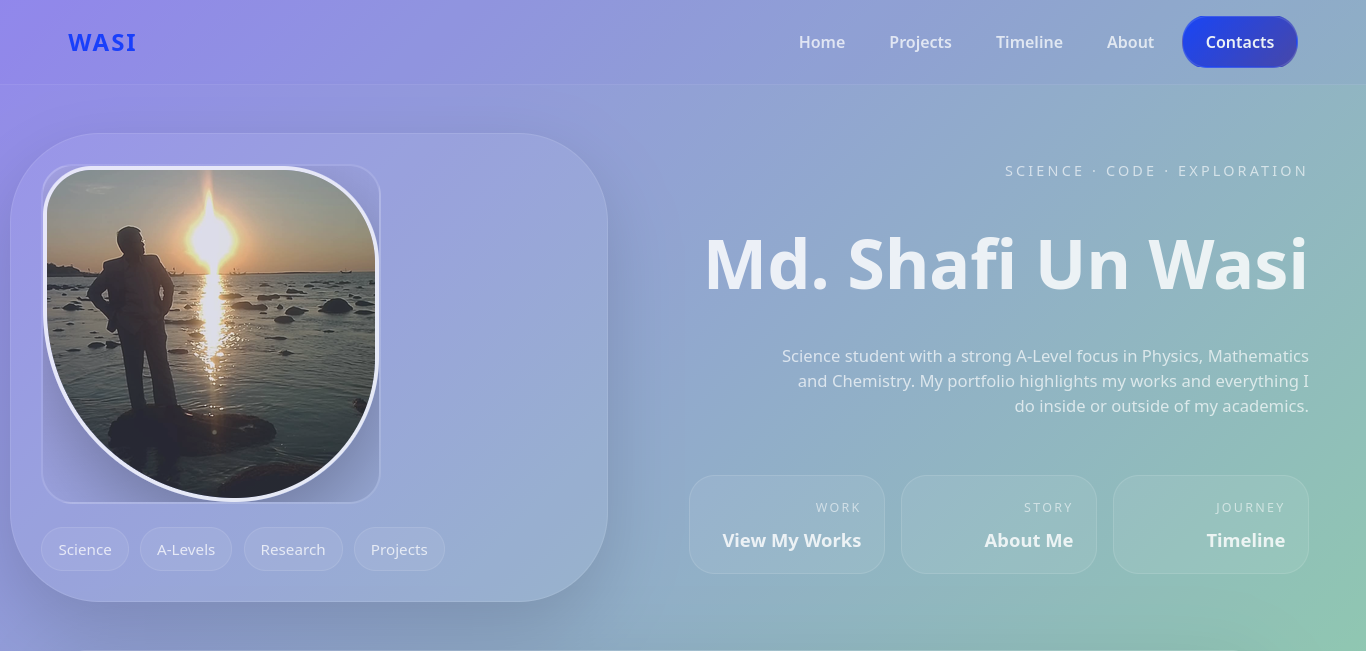
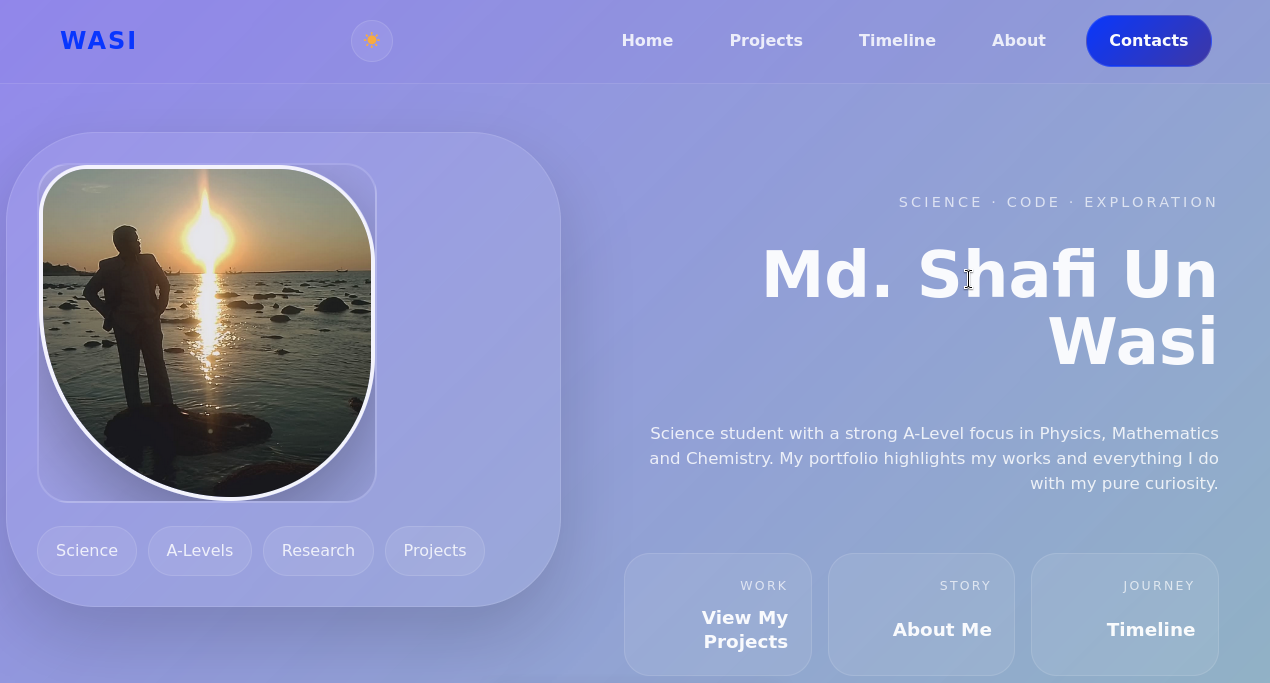
Added update, credentials subpages. used the assets/ article page (Some edit there still remains specially CSS). And some data update. Added stats from GitHub and hacktime.

diff --git a/index.html b/index.html
@@ -24,9 +24,6 @@
     <link rel="manifest" href="manifest.json">
 
     <title>Wasi's Portfolio</title>
-    <link rel="preconnect" href="https://fonts.googleapis.com">
-    <link rel="preconnect" href="https://fonts.gstatic.com" crossorigin>
-    <link href="https://fonts.googleapis.com/css2?family=Inter:wght@400;600;700;800;900&display=swap" rel="stylesheet">
     <link rel="stylesheet" href="my-style.css">
 </head>
 <body class="library-theme">
@@ -71,22 +68,34 @@
             <div class="hero-right reveal">
                 <div class="hero-eyebrow">Science · Code · Exploration</div>
                 <h1>Md. Shafi Un Wasi</h1>
-                <p>Science student with a strong A-Level focus in Physics, Mathematics and Chemistry. My portfolio highlights my works and everything I do inside or outside of my academics.</p>
+                <p>Science student with a strong A-Level focus in Physics, Mathematics and Chemistry. My portfolio highlights my works and everything I do with my pure curiosity.</p>
 
                 <div class="hero-link-grid">
                     <a href="Pages/view-my-work-index.html" class="hero-link-card">
                         <span>Work</span>
-                        <strong>View My Works</strong>
+                        <strong>View My Projects</strong>
                     </a>
                     <a href="Pages/about-index.html" class="hero-link-card">
                         <span>Story</span>
                         <strong>About Me</strong>
                     </a>
-                    <a href="Pages/history-timeline-index.html" class="hero-link-card">
-                        <span>Journey</span>
-                        <strong>Timeline</strong>
+                    <a href="Pages/credentials-index.html" class="hero-link-card">
+                        <span>Credentials</span>
+                        <strong>credentials and cirtifications</strong>
                     </a>
                 </div>
+            </div>
+        </section>
+
+        <section id="status" class="panel reveal delay-3">
+            <h2 class="section-title">Current Status</h2>
+            <div class="status-card">
+                <div class="status-pill-row">
+                    <span class="status-pill">Innovating new ideas</span>
+                    <span class="status-pill">Sharing progress</span>
+                    <span class="status-pill">Open to collaboration</span>
+                </div>
+                <p>I’m currently working on projects, posting updates, and collecting thoughts that I’ll share through this website.</p>
             </div>
         </section>
 
@@ -141,12 +150,51 @@
                 </article>
             </div>
         </section>
+
+        <section id="stats" class="panel reveal delay-6">
+            <h2 class="section-title">GitHub Stats</h2>
+            <div class="stats-grid stats-row">
+                <article class="stat-card">
+                    <img src="https://github-readme-stats.shion.dev/api?username=MDSUWasi&theme=radical&hide_border=false&include_all_commits=true&count_private=true" alt="GitHub stats for Md. Shafi Un Wasi" loading="lazy">
+                </article>
+                <article class="stat-card">
+                    <img src="https://streak-stats.demolab.com/?user=MDSUWasi&theme=radical&hide_border=false" alt="GitHub streak stats for Md. Shafi Un Wasi" loading="lazy">
+                </article>
+                <article class="stat-card">
+                    <img src="https://github-readme-stats.shion.dev/api/top-langs/?username=MDSUWasi&theme=radical&hide_border=false&include_all_commits=true&count_private=true&layout=compact" alt="Top languages for Md. Shafi Un Wasi" loading="lazy">
+                </article>
+            </div>
+        </section>
+
+        <section id="hacktime-stats" class="panel reveal delay-6">
+            <h2 class="section-title">Hacktime Stats</h2>
+            <div class="stats-grid stats-row">
+                <article class="stat-card">
+                    <img src="https://github-readme-stats.hackclub.dev/api/wakatime?username=37914&api_domain=hackatime.hackclub.com&theme=great-gatsby&custom_title=Hackatime+Stats&layout=compact&cache_seconds=0&langs_count=8" alt="Hacktime stats for Md. Shafi Un Wasi" loading="lazy">
+                </article>
+            </div>
+        </section>
+
+        <section id="analytics" class="panel reveal delay-6">
+            <h2 class="section-title">How This Website Analytics Work</h2>
+            <div class="analytics-card">
+                <p>This website uses Umami analytics to collect privacy-friendly, anonymous data about visits and page activity. The goal is to understand which pages are useful, improve the experience, and keep the site helpful for visitors.</p>
+                <p>It tracks things like page views, referrer information, and general visit patterns without storing personal details or relying on invasive cookies. The data is used only to improve this portfolio site and is not shared for advertising purposes.</p>
+                <br>
+                <p><b>This page or any sub-page may contain links from other sites. The analytics of those sites is totally on their own. So, those who visit any other site using external link please be aware of those site's privay policy and terms of conditions (Those may be entirely different from my site)</b></p>
+            </div>
+        </section>
     </main>
 
     <footer id="contact" class="footer-panel reveal delay-6">
         <div class="footer-copy">
             <h3>More From Me</h3>
-            <p>This site will get a major update on 10 August with a lot of new things.</p>
+            <p>Thank You For Visiting My Portfolio Website.</p>
+        </div>
+        <div class="footer-actions">
+            <a href="Pages/updates-index.html" class="btn-secondary">View Updates</a>
+            <a href="Pages/articles-index.html" class="btn-secondary">Read Articles</a>
+            <a href="Pages/credentials-index.html" class="btn-secondary">View Credentials</a>
         </div>
         <div class="socials">
             <a href="https://github.com/MDSUWasi" class="hover-icon" target="_blank" rel="noopener noreferrer">GitHub</a>

diff --git a/my-style.css b/my-style.css
@@ -200,6 +200,9 @@ button {
     display: grid;
     gap: 2rem;
     align-content: center;
+    position: relative;
+    padding-bottom: 8rem;
+    isolation: isolate;
 }
 
 .avatar-card {
@@ -250,6 +253,38 @@ button {
     justify-items: end;
     text-align: right;
     align-content: center;
+}
+
+.status-card {
+    background: var(--panel-bg);
+    border: 1px solid var(--glass-border);
+    border-radius: var(--card-radius);
+    padding: 1.7rem;
+    box-shadow: 0 18px 48px rgba(0, 0, 0, 0.16);
+}
+
+.status-pill-row {
+    display: flex;
+    flex-wrap: wrap;
+    gap: 0.75rem;
+    margin-bottom: 1rem;
+}
+
+.status-pill {
+    display: inline-flex;
+    align-items: center;
+    padding: 0.7rem 1rem;
+    border-radius: 999px;
+    background: rgba(255, 255, 255, 0.12);
+    border: 1px solid rgba(255, 255, 255, 0.16);
+    color: var(--text);
+    font-weight: 600;
+}
+
+.status-card p {
+    margin: 0;
+    color: var(--text-muted);
+    line-height: 1.75;
 }
 
 .hero-eyebrow {
@@ -497,6 +532,66 @@ button {
     pointer-events: none;
 }
 
+.stats-grid {
+    display: grid;
+    grid-template-columns: repeat(2, minmax(240px, 1fr));
+    gap: 1.5rem;
+}
+
+.stats-grid.stats-row {
+    grid-template-columns: repeat(3, minmax(220px, 1fr));
+    align-items: start;
+}
+
+.stat-card {
+    background: var(--panel-bg);
+    border: 1px solid var(--glass-border);
+    border-radius: var(--card-radius);
+    padding: 1.2rem;
+    box-shadow: 0 18px 48px rgba(0, 0, 0, 0.16);
+    display: flex;
+    align-items: center;
+    justify-content: center;
+}
+
+.stat-card img {
+    width: 100%;
+    max-width: 100%;
+    height: auto;
+    border-radius: 16px;
+    display: block;
+}
+
+.analytics-card {
+    background: var(--panel-bg);
+    border: 1px solid var(--glass-border);
+    border-radius: var(--card-radius);
+    padding: 1.7rem;
+    box-shadow: 0 18px 48px rgba(0, 0, 0, 0.16);
+}
+
+.analytics-card p {
+    color: var(--text-muted);
+    line-height: 1.75;
+    margin: 0 0 1rem;
+}
+
+.analytics-card p:last-child {
+    margin-bottom: 0;
+}
+
+.credential-card img {
+    width: 100%;
+    height: 220px;
+    object-fit: cover;
+    border-radius: 16px;
+    margin: 1rem 0;
+}
+
+.credential-card .btn-secondary {
+    margin-top: 0.8rem;
+}
+
 .footer-panel {
     margin: 2rem auto;
     padding: 3rem 5%;
@@ -511,6 +606,12 @@ button {
     box-shadow: 0 20px 80px rgba(0, 0, 0, 0.12);
     backdrop-filter: blur(18px);
     -webkit-backdrop-filter: blur(18px);
+}
+
+.footer-actions {
+    display: flex;
+    flex-wrap: wrap;
+    gap: 0.85rem;
 }
 
 .footer-copy h3 {
@@ -621,7 +722,9 @@ button {
     }
 
     .card-grid,
-    .panel-grid {
+    .panel-grid,
+    .stats-grid,
+    .stats-grid.stats-row {
         grid-template-columns: 1fr;
     }
 }
@@ -677,6 +780,10 @@ button {
         padding-top: 1.5rem;
     }
 
+    .hero-left {
+        padding-bottom: 1rem;
+    }
+
     .hero-decoration {
         display: none;
     }
@@ -690,6 +797,10 @@ button {
     .footer-panel {
         flex-direction: column;
         align-items: stretch;
+    }
+
+    .footer-actions {
+        justify-content: flex-start;
     }
 }
 

diff --git a/Pages/credentials-index.html b/Pages/credentials-index.html
@@ -1,0 +1,44 @@
+<!DOCTYPE html>
+<html lang="en" data-theme="light">
+<head>
+    <meta charset="UTF-8">
+    <meta name="viewport" content="width=device-width, initial-scale=1.0">
+    <title>Credentials | Wasi's Portfolio</title>
+    <link rel="stylesheet" href="../my-style.css">
+</head>
+<body class="library-theme">
+    <header class="site-header">
+        <a href="../index.html" class="logo">WASI</a>
+        <nav class="nav-links" id="primary-nav" aria-label="Primary navigation">
+            <a href="../index.html" class="nav-link">Home</a>
+            <a href="project-index.html" class="nav-link">Projects</a>
+            <a href="history-timeline-index.html" class="nav-link">Timeline</a>
+            <a href="about-index.html" class="nav-link">About</a>
+            <a href="contact-index.html" class="btn-primary nav-link">Contacts</a>
+        </nav>
+    </header>
+
+    <main>
+        <section class="panel reveal delay-3">
+            <h2 class="section-title">Credentials</h2>
+            <div class="card-grid">
+                <article class="card credential-card">
+                    <h3>Certificate Title</h3>
+                    <p>Add your certificate name, short description, and a supporting image here.</p>
+                    <img src="../Assets/Images/my profile.jpg" alt="Credential preview" loading="lazy">
+                    <a href="#" class="btn-secondary" target="_blank" rel="noopener noreferrer">Verify Credential</a>
+                </article>
+
+                <article class="card credential-card">
+                    <h3>Academic Excellience Award</h3>
+                    <p>This the award I achieve by doing good result in Secondary School Cirtificate (SSC) Examination</p>
+                    <img src="../Assets/Images/timeline-2025-ssc.jpg" alt="Credential preview" loading="lazy">
+                    <a href="../Assets/Images/timeline-2025-ssc.jpg" class="btn-secondary" target="_blank" rel="noopener noreferrer">Verify Credential</a>
+                </article>
+            </div>
+        </section>
+    </main>
+
+    <script src="../my-script.js" defer></script>
+</body>
+</html>

diff --git a/Pages/updates-index.html b/Pages/updates-index.html
@@ -1,0 +1,32 @@
+<!DOCTYPE html>
+<html lang="en" data-theme="light">
+<head>
+    <meta charset="UTF-8">
+    <meta name="viewport" content="width=device-width, initial-scale=1.0">
+    <title>Updates</title>
+    <link rel="stylesheet" href="../my-style.css">
+</head>
+<body class="library-theme">
+    <header class="site-header">
+        <a href="../index.html" class="logo">WASI</a>
+        <nav class="nav-links" id="primary-nav" aria-label="Primary navigation">
+            <a href="../index.html" class="nav-link">Home</a>
+            <a href="project-index.html" class="nav-link">Projects</a>
+            <a href="history-timeline-index.html" class="nav-link">Timeline</a>
+            <a href="about-index.html" class="nav-link">About</a>
+            <a href="contact-index.html" class="btn-primary nav-link">Contacts</a>
+        </nav>
+    </header>
+
+    <main>
+        <section class="panel reveal delay-3">
+            <h2 class="section-title">Updates</h2>
+            <div class="status-card">
+                <p>Updates and notifications will appear here soon. This space is ready for new posts, announcements, and progress notes.</p>
+            </div>
+        </section>
+    </main>
+
+    <script src="../my-script.js" defer></script>
+</body>
+</html>
